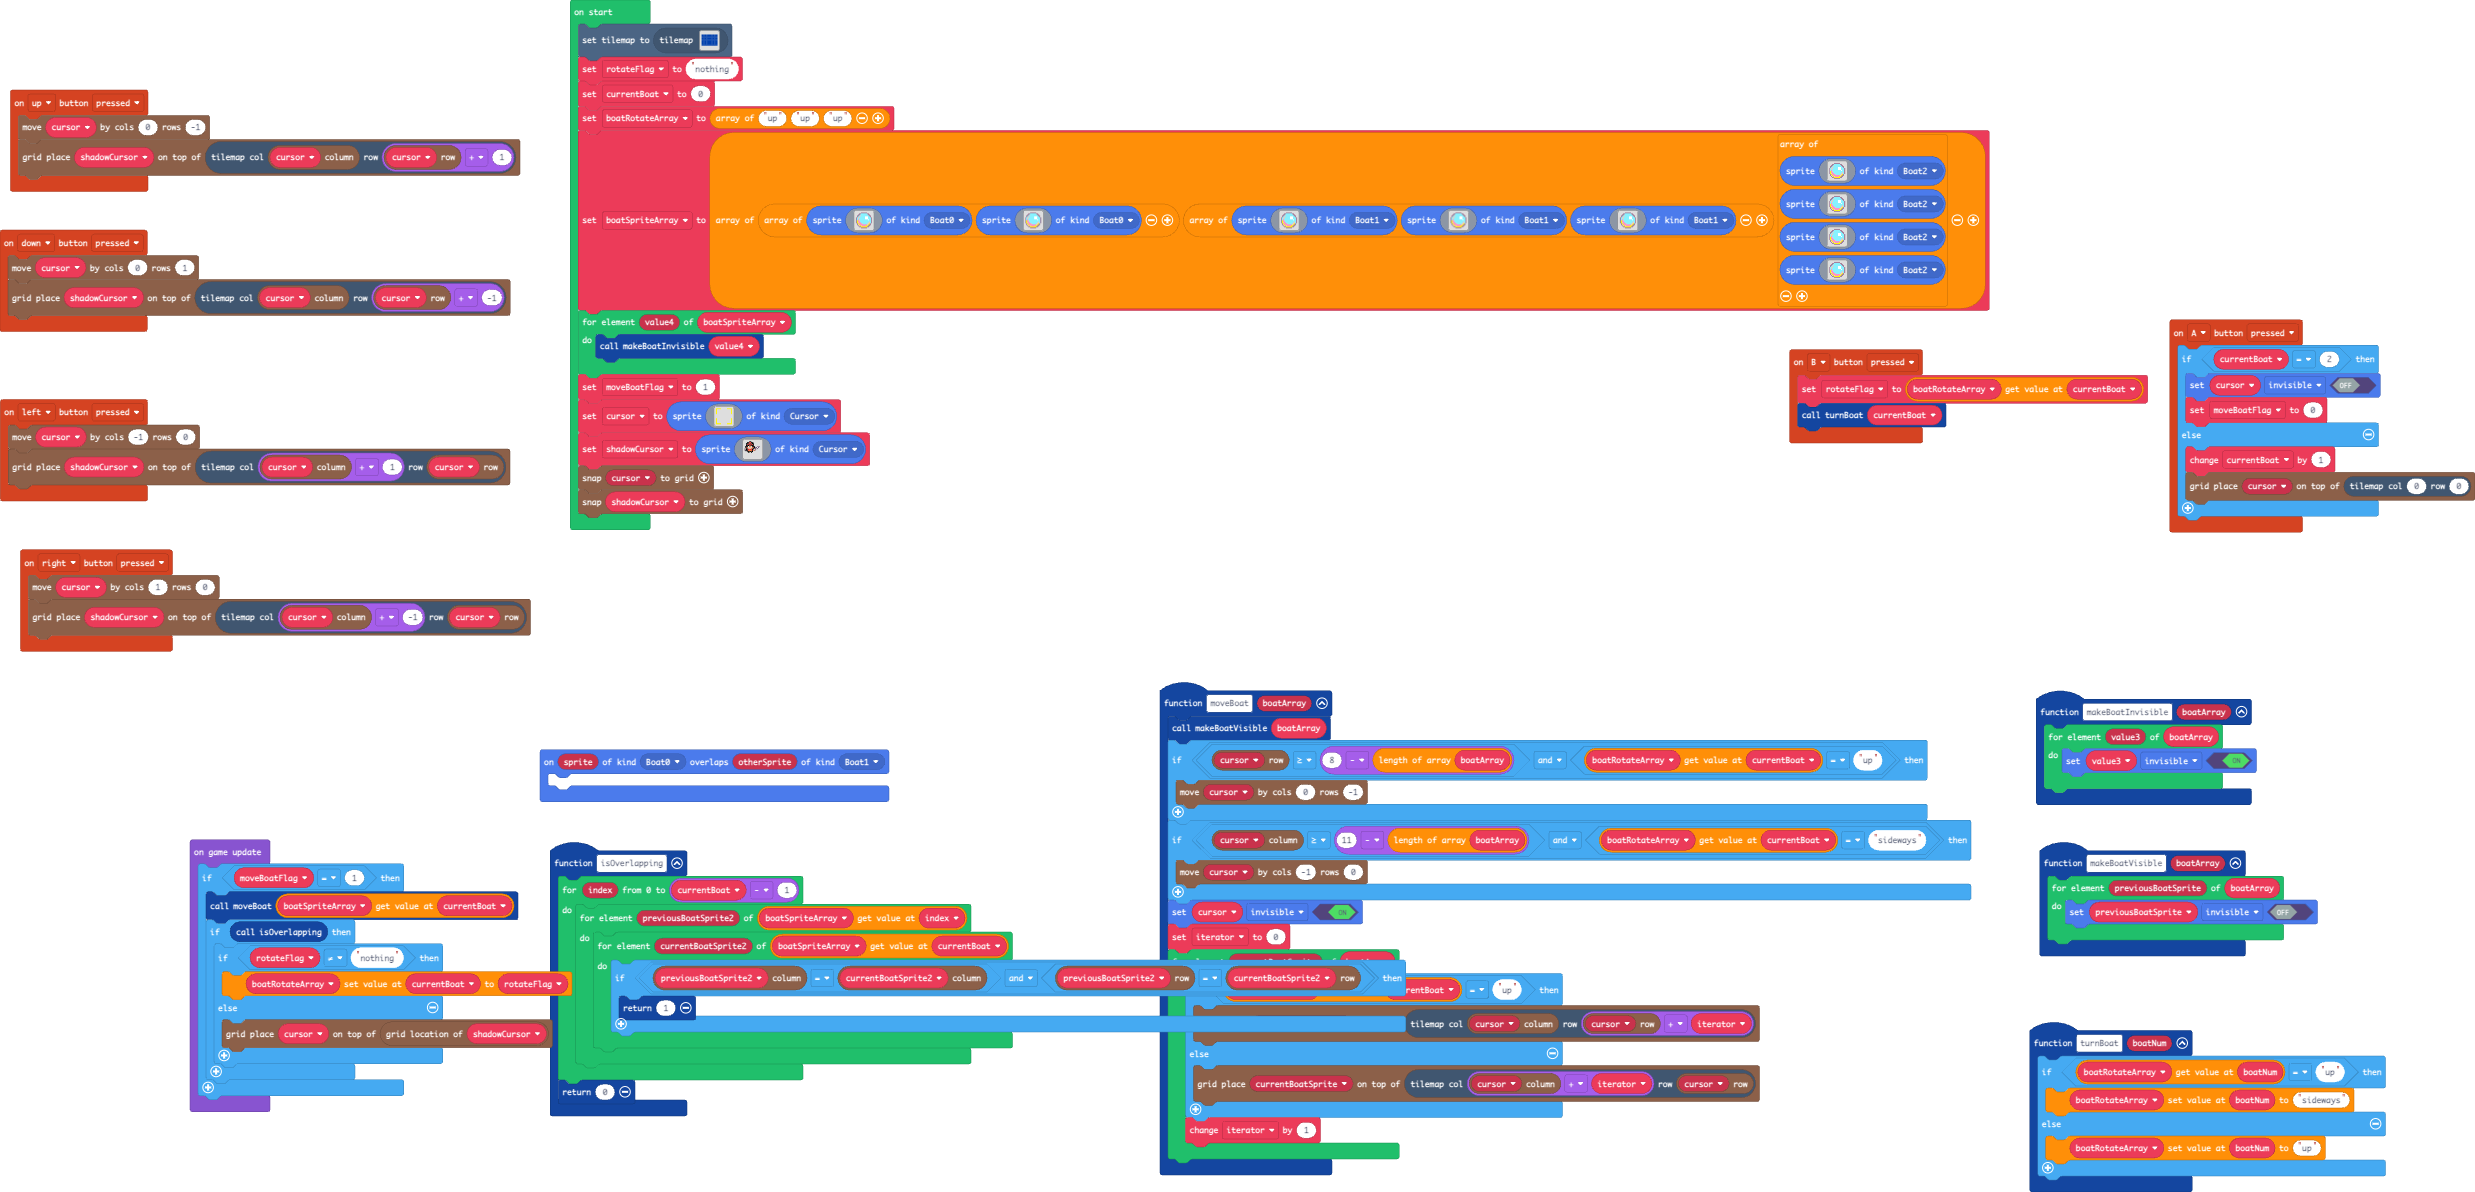
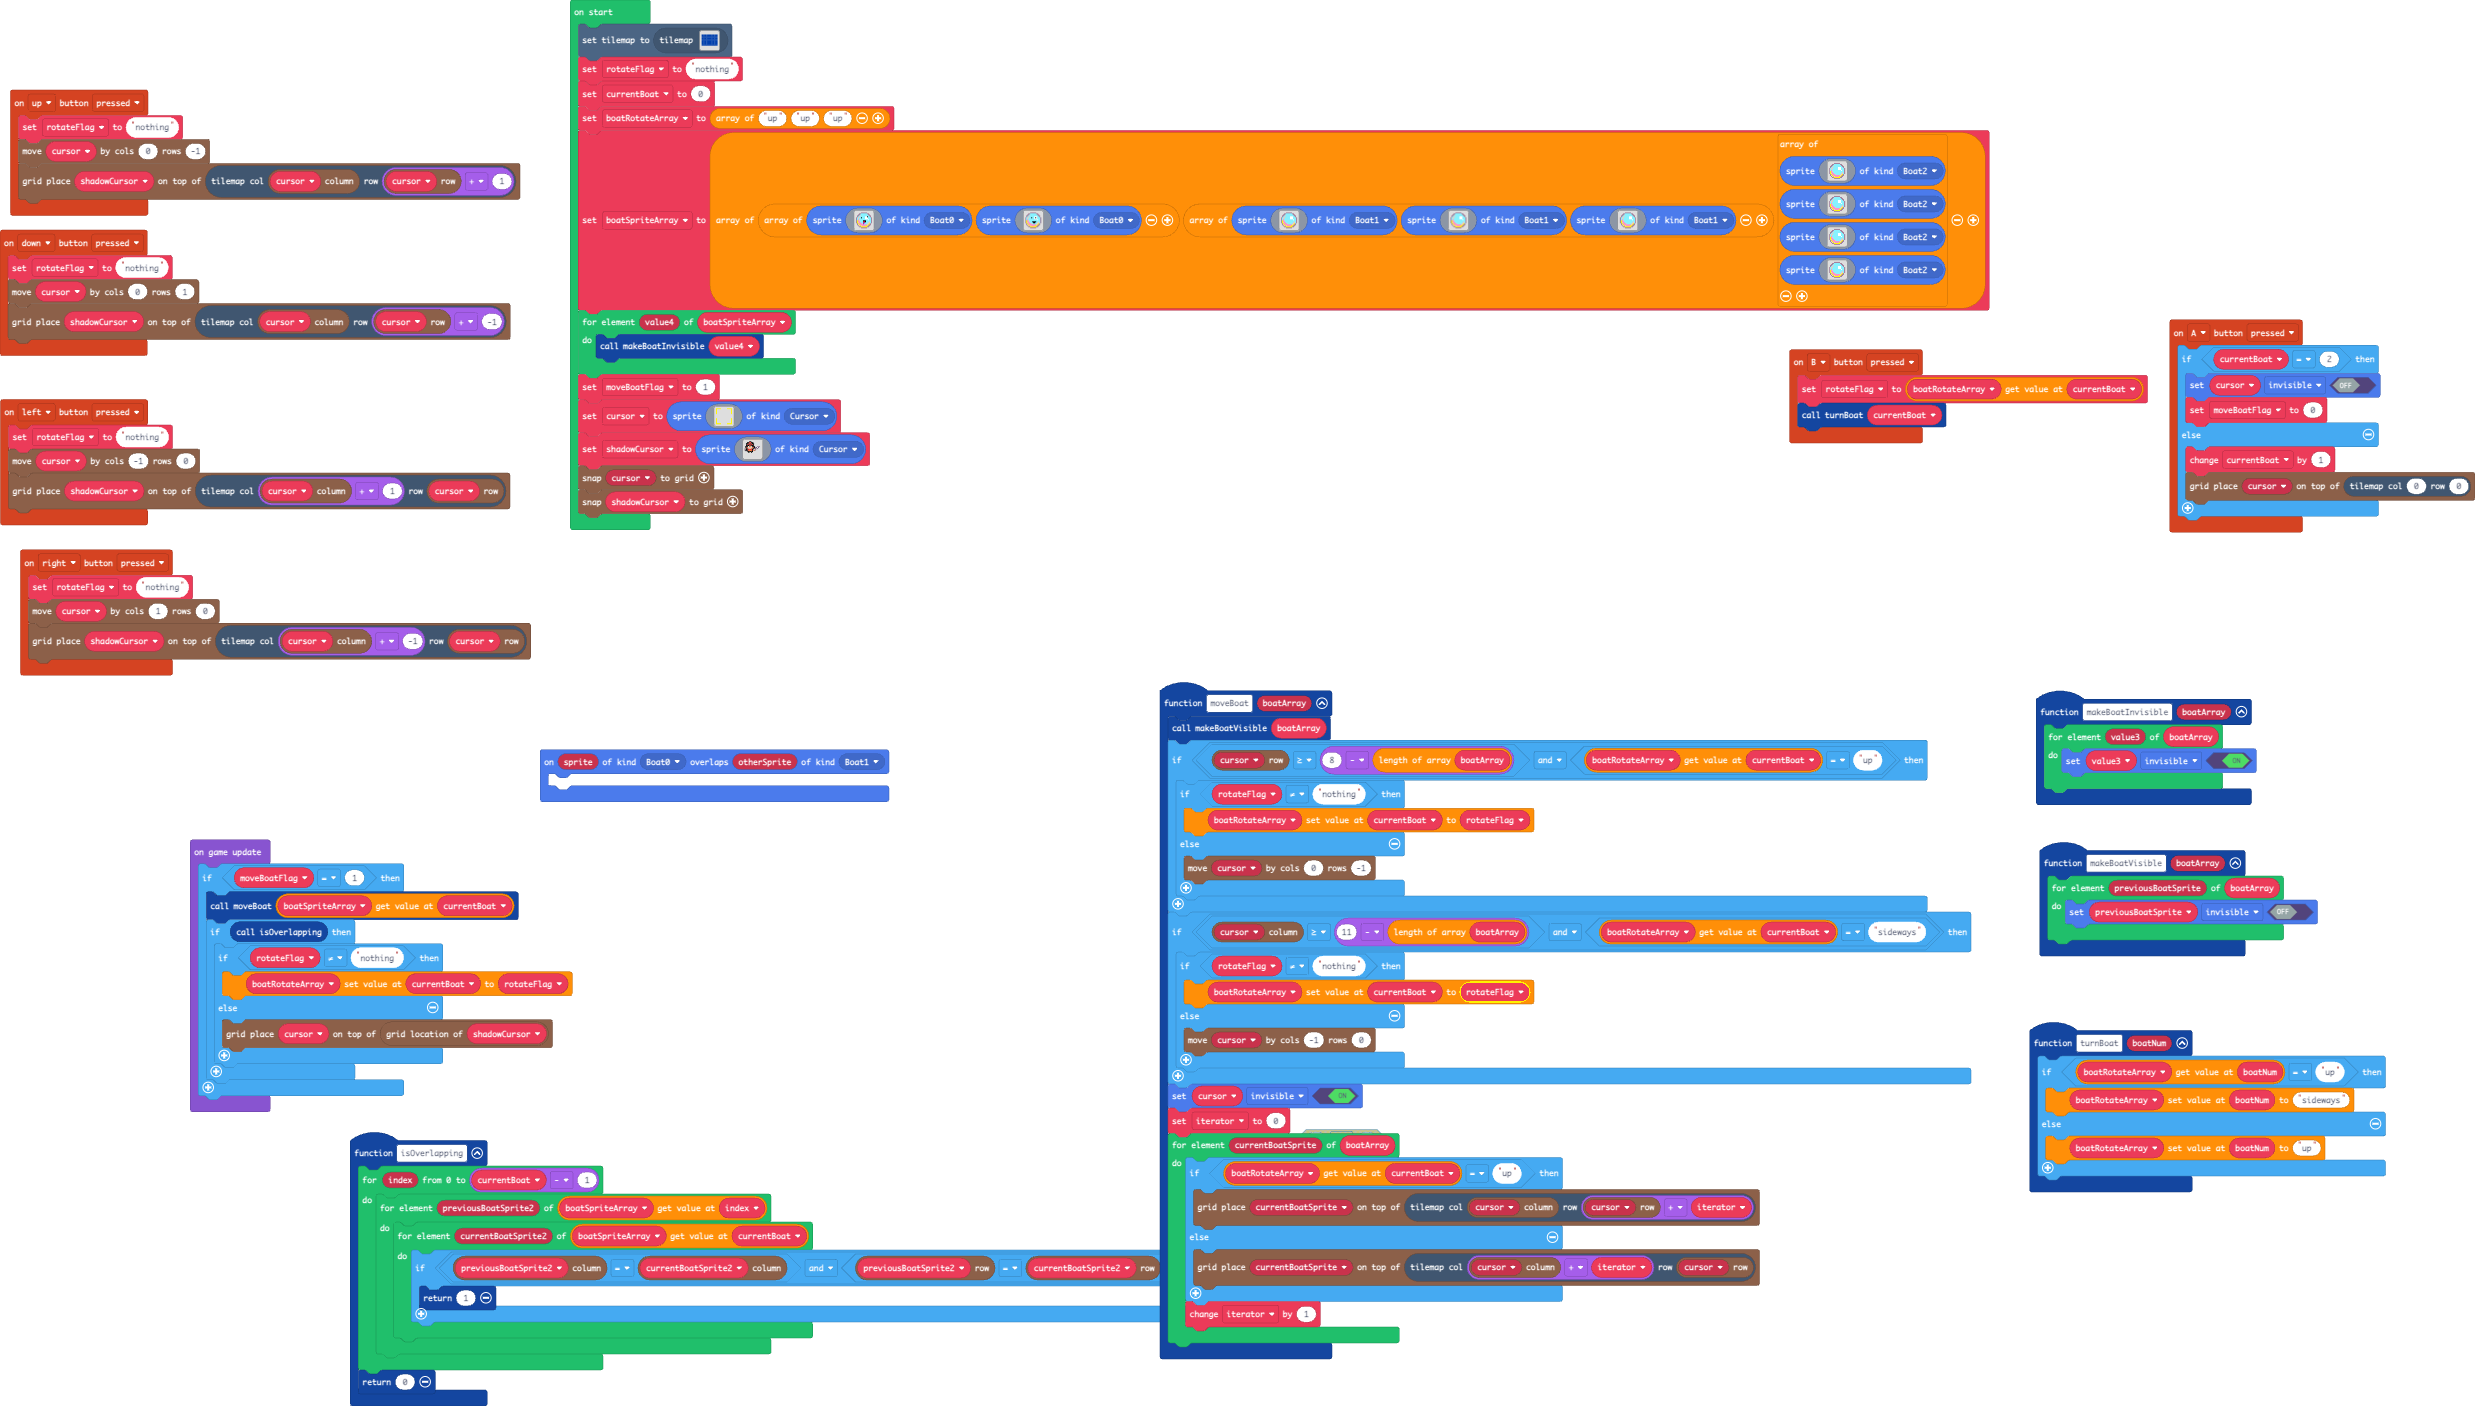
fixed rotate bug (bottom screen)

diff --git a/main.ts b/main.ts
@@ -5,6 +5,7 @@ namespace SpriteKind {
     export const Boat2 = SpriteKind.create()
 }
 controller.up.onEvent(ControllerButtonEvent.Pressed, function () {
+    rotateFlag = "nothing"
     grid.move(cursor, 0, -1)
     grid.place(shadowCursor, tiles.getTileLocation(grid.spriteCol(cursor), grid.spriteRow(cursor) + 1))
 })
@@ -30,20 +31,30 @@ controller.A.onEvent(ControllerButtonEvent.Pressed, function () {
     }
 })
 controller.left.onEvent(ControllerButtonEvent.Pressed, function () {
+    rotateFlag = "nothing"
     grid.move(cursor, -1, 0)
     grid.place(shadowCursor, tiles.getTileLocation(grid.spriteCol(cursor) + 1, grid.spriteRow(cursor)))
 })
 controller.right.onEvent(ControllerButtonEvent.Pressed, function () {
+    rotateFlag = "nothing"
     grid.move(cursor, 1, 0)
     grid.place(shadowCursor, tiles.getTileLocation(grid.spriteCol(cursor) + -1, grid.spriteRow(cursor)))
 })
 function moveBoat (boatArray: any[]) {
     makeBoatVisible(boatArray)
     if (grid.spriteRow(cursor) >= 8 - boatArray.length && boatRotateArray[currentBoat] == "up") {
-        grid.move(cursor, 0, -1)
+        if (rotateFlag != "nothing") {
+            boatRotateArray[currentBoat] = rotateFlag
+        } else {
+            grid.move(cursor, 0, -1)
+        }
     }
     if (grid.spriteCol(cursor) >= 11 - boatArray.length && boatRotateArray[currentBoat] == "sideways") {
-        grid.move(cursor, -1, 0)
+        if (rotateFlag != "nothing") {
+            boatRotateArray[currentBoat] = rotateFlag
+        } else {
+            grid.move(cursor, -1, 0)
+        }
     }
     cursor.setFlag(SpriteFlag.Invisible, true)
     iterator = 0
@@ -57,6 +68,7 @@ function moveBoat (boatArray: any[]) {
     }
 }
 controller.down.onEvent(ControllerButtonEvent.Pressed, function () {
+    rotateFlag = "nothing"
     grid.move(cursor, 0, 1)
     grid.place(shadowCursor, tiles.getTileLocation(grid.spriteCol(cursor), grid.spriteRow(cursor) + -1))
 })
@@ -101,14 +113,14 @@ boatSpriteArray = [[sprites.create(img`
     . . . b b 9 9 9 9 9 9 b b . . . 
     . . b b 9 9 9 9 9 9 9 9 b b . . 
     . b b 9 d 9 9 9 9 9 9 9 9 b b . 
-    . b 9 d 9 9 9 9 9 1 1 1 9 9 b . 
-    b 9 d d 9 9 9 9 9 1 1 1 9 9 9 b 
+    . b 9 d 9 9 9 9 9 1 1 f 9 9 b . 
+    b 9 d d 9 f 9 9 9 1 1 1 9 9 9 b 
     b 9 d 9 9 9 9 9 9 1 1 1 9 9 9 b 
     b 9 3 9 9 9 9 9 9 9 9 9 1 9 9 b 
-    b 5 3 d 9 9 9 9 9 9 9 9 9 9 9 b 
-    b 5 3 3 9 9 9 9 9 9 9 9 9 d 9 b 
-    b 5 d 3 3 9 9 9 9 9 9 9 d d 9 b 
-    . b 5 3 3 3 d 9 9 9 9 d d 5 b . 
+    b 5 3 d 9 9 9 f f f 9 9 9 9 9 b 
+    b 5 3 3 9 9 9 2 2 f 9 9 9 d 9 b 
+    b 5 d 3 3 9 9 a a 9 9 9 d d 9 b 
+    . b 5 3 3 3 d a 9 9 9 d d 5 b . 
     . b d 5 3 3 3 3 3 3 3 d 5 b b . 
     . . b d 5 d 3 3 3 3 5 5 b b . . 
     . . . b b 5 5 5 5 5 5 b b . . . 
@@ -119,12 +131,12 @@ boatSpriteArray = [[sprites.create(img`
     . . b b 9 9 9 9 9 9 9 9 b b . . 
     . b b 9 d 9 9 9 9 9 9 9 9 b b . 
     . b 9 d 9 9 9 9 9 1 1 1 9 9 b . 
-    b 9 d d 9 9 9 9 9 1 1 1 9 9 9 b 
+    b 9 d d 9 9 f 9 9 1 f 1 9 9 9 b 
     b 9 d 9 9 9 9 9 9 1 1 1 9 9 9 b 
     b 9 3 9 9 9 9 9 9 9 9 9 1 9 9 b 
     b 5 3 d 9 9 9 9 9 9 9 9 9 9 9 b 
-    b 5 3 3 9 9 9 9 9 9 9 9 9 d 9 b 
-    b 5 d 3 3 9 9 9 9 9 9 9 d d 9 b 
+    b 5 3 3 9 9 9 f f f f 9 9 d 9 b 
+    b 5 d 3 3 9 9 9 f f 9 9 d d 9 b 
     . b 5 3 3 3 d 9 9 9 9 d d 5 b . 
     . b d 5 3 3 3 3 3 3 3 d 5 b b . 
     . . b d 5 d 3 3 3 3 5 5 b b . . 
